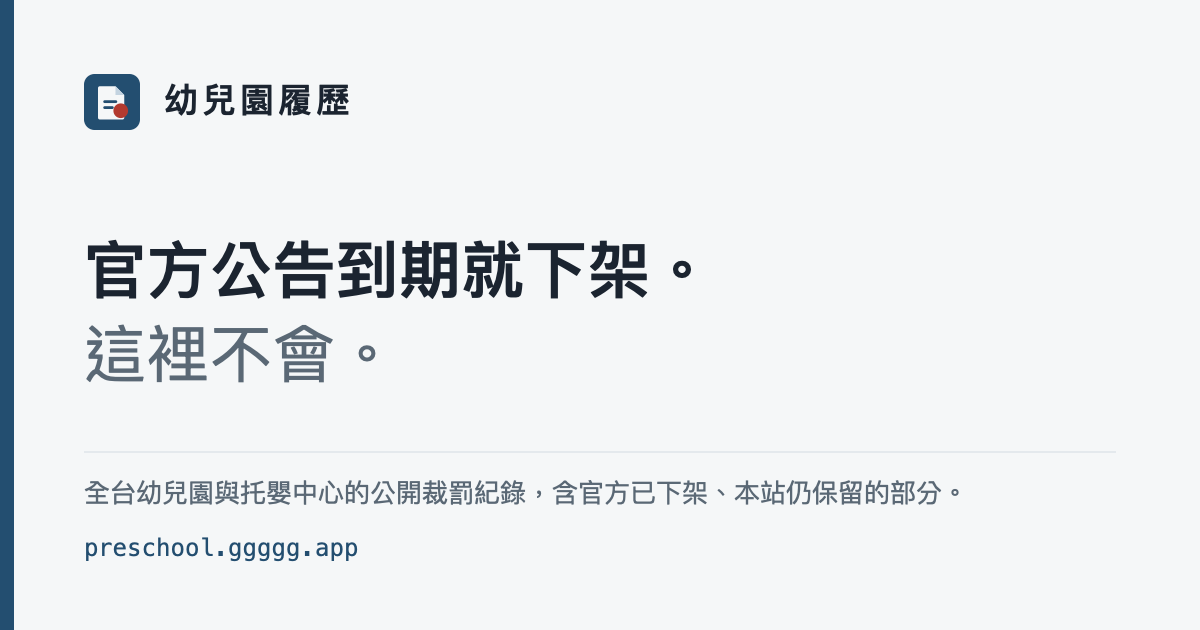
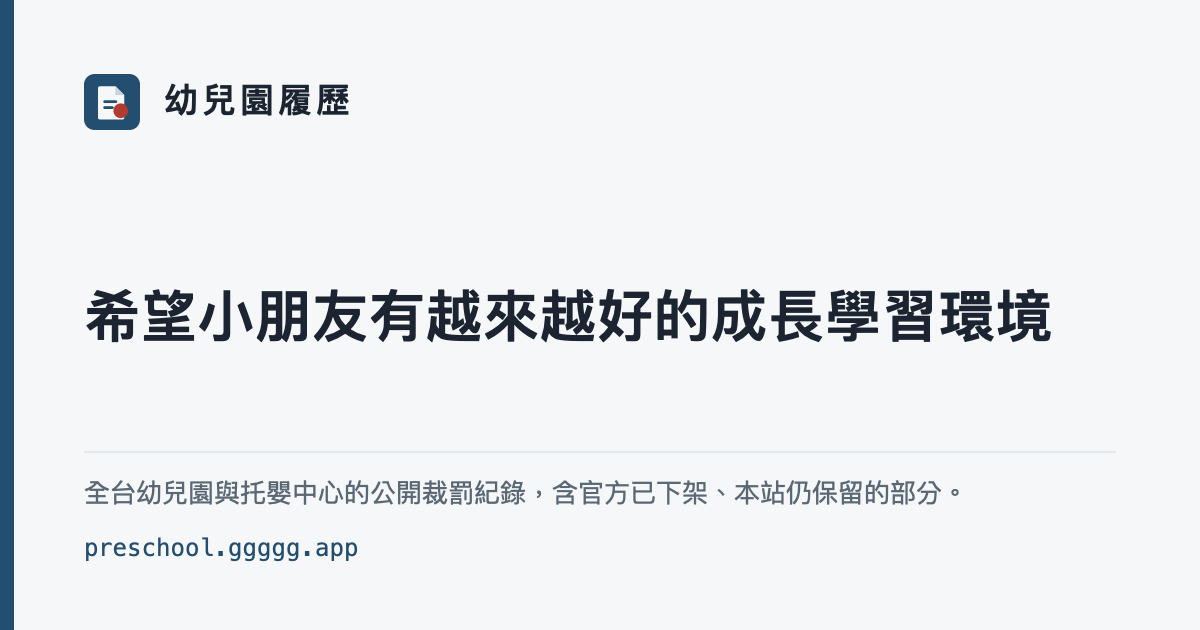
首頁主張改為「希望小朋友有越來越好的成長學習環境」；空位標記再亮一階
一、標題換句。舊句「官方公告到期就下架。這裡不會。」出現在四個地方，一併換掉：
首頁 h1、og:image:alt、OG 圖來源 SVG、以及重新產生的 og.png。新句是一整句、
沒有兩段結構，故拿掉 .quiet 的分色，連同只服務舊標題的那兩條 CSS 一起移除，
不留死樣式。OG 圖上兩行併一行、字級 62 → 56（17 字放得下 1032px 的內容區）。

二、有空位改用更亮的 #0f86f5，並把填色改為全不透明。原本 #0b72d9 在 0.8
不透明度下混合後只有 3.13:1，已經貼著非文字元素的 3:1 門檻，直接調亮會掉下去。
改成不透明後是 3.22:1——比原本更亮，實際對比反而更好。代價是重疊的兩點會完全
遮住彼此，記在註解裡。

三、已額滿的邊框 2px → 3px。

Changed region(s): [[0.0617, 0.3619, 0.8942, 0.6032]]

diff --git a/site/assets/style.css b/site/assets/style.css
@@ -78,9 +78,6 @@ a:hover { color: var(--seal); }
   font-size: clamp(1.3rem, 3.4vw, 1.9rem);
   line-height: 1.4; letter-spacing: -0.01em; font-weight: 700;
 }
-/* 窄螢幕斷成兩行才讀得順；桌機一行放得下（18 字 × 1.9rem 約 580px） */
-.thesis h1 .quiet { color: var(--ink-soft); font-weight: 400; display: block; }
-@media (min-width: 44rem) { .thesis h1 .quiet { display: inline; } }
 
 .tally { display: flex; flex-wrap: wrap; gap: 2.5rem 3.5rem; }
 .tally div { min-width: 6rem; }
@@ -141,10 +138,10 @@ a:hover { color: var(--seal); }
 }
 .legend .has { background: var(--seal); }
 /* 已額滿：底色淺，靠邊框撐輪廓（與地圖標記同一套） */
-.legend .none { background: rgba(195, 211, 221, 0.5); border: 2px solid #5f7d91; }
+.legend .none { background: rgba(195, 211, 221, 0.5); border: 3px solid #5f7d91; }
 /* 空心環：色覺缺陷者靠形狀也分得出來 */
 .legend .clean { background: rgba(46, 158, 91, 0.2); border: 1.5px solid #2e9e5b; }
-.legend .open { background: #0b72d9; }
+.legend .open { background: #0f86f5; }
 
 /* ---------- 區段標題 ---------- */
 

diff --git a/site/assets/map.js b/site/assets/map.js
@@ -90,8 +90,11 @@
     // 資料標記。底圖已去飽和，飽和度是這裡唯一沒被佔用的通道，故改用高飽和亮藍。
     // 已額滿的底色本來就淺，改以較粗邊框撐出輪廓——同時延續「實心／空心」這個
     // 非色彩的區別管道，與裁罰圖層的紅實心／綠空心同一套邏輯。
-    vacant: { color: "#0b72d9", fill: "#0b72d9", opacity: 0.8, weight: 1 },
-    full: { color: "#5f7d91", fill: "#c3d3dd", opacity: 0.5, weight: 2 },
+    // 有空位用全不透明：填色 0.8 時 #0b72d9 混合後只剩 3.13:1，已經貼著非文字
+    // 元素的 3:1 門檻，再亮就會掉下去。改為不透明後 #0f86f5 是 3.22:1——比原本
+    // 更亮、實際對比反而更好。代價是重疊的兩點會完全遮住彼此。
+    vacant: { color: "#0f86f5", fill: "#0f86f5", opacity: 1, weight: 1 },
+    full: { color: "#5f7d91", fill: "#c3d3dd", opacity: 0.5, weight: 3 },
   };
 
   function marker(row, style, label) {

diff --git a/site/templates/base.html b/site/templates/base.html
@@ -26,7 +26,7 @@
 <meta property="og:image" content="{{ base_url }}/assets/og.png">
 <meta property="og:image:width" content="1200">
 <meta property="og:image:height" content="630">
-<meta property="og:image:alt" content="幼兒園履歷：官方公告到期就下架，這裡不會。">
+<meta property="og:image:alt" content="幼兒園履歷：希望小朋友有越來越好的成長學習環境">
 <meta name="twitter:card" content="summary_large_image">
 <link rel="icon" href="/assets/favicon.svg" type="image/svg+xml">
 <link rel="stylesheet" href="/assets/style.css">

diff --git a/site/templates/index.html b/site/templates/index.html
@@ -10,7 +10,7 @@
 <div class="wrap">
 
   <section class="thesis">
-    <h1>官方公告到期就下架。<span class="quiet">這裡不會。</span></h1>
+    <h1>希望小朋友有越來越好的成長學習環境</h1>
     <div class="tally">
       <div>
         <b>{{ "{:,}".format(counts.institutions) }}</b>
